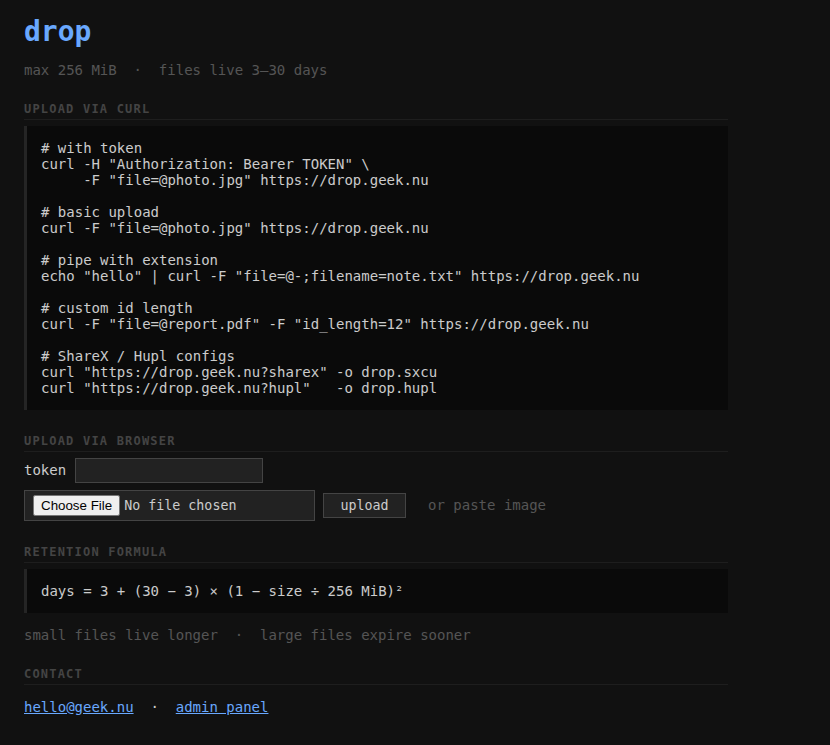
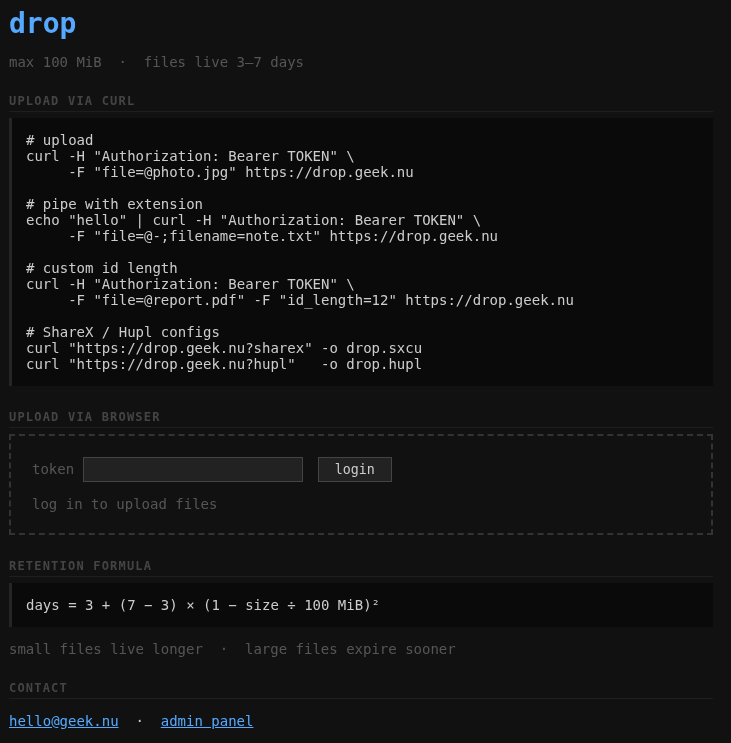
update screenshot

diff --git a/docs/superpowers/plans/2026-03-29-upload-session-auth.md b/docs/superpowers/plans/2026-03-29-upload-session-auth.md
@@ -1,0 +1,355 @@
+# Upload Session Auth Implementation Plan
+
+> **For agentic workers:** REQUIRED SUB-SKILL: Use superpowers:subagent-driven-development (recommended) or superpowers:executing-plans to implement this plan task-by-task. Steps use checkbox (`- [ ]`) syntax for tracking.
+
+**Goal:** Replace the per-upload token field with a session-based "login" flow so browser uploads (paste, drag-drop, form) work without re-entering the token.
+
+**Architecture:** Add a `role` field to the existing `sessionData` struct to distinguish admin vs upload sessions. Add an upload-token login handler in `handleRoot`. Modify `handleUpload` to accept upload sessions. Update the index template to show a login form instead of an inline token field.
+
+**Tech Stack:** Go stdlib (net/http, sync, crypto), HTML/JS (inline template)
+
+**Note:** This project has no tests. Steps skip TDD and go straight to implementation + manual verification.
+
+---
+
+### Task 1: Add role field to sessionData and create isUploader helper
+
+**Files:**
+- Modify: `main.go:345-348` (sessionData struct)
+- Modify: `main.go:462-469` (newSession function)
+- Add new function after `isAdmin`
+
+- [ ] **Step 1: Add `role` field to `sessionData`**
+
+Change the struct at line 345:
+
+```go
+type sessionData struct {
+	expiry time.Time
+	csrf   string
+	role   string // "admin" or "upload"
+}
+```
+
+- [ ] **Step 2: Update `newSession` to accept a role parameter**
+
+Change `newSession` (line 462) to:
+
+```go
+func newSession(role string) string {
+	tok := randHex(32)
+	sessions.Store(tok, sessionData{
+		expiry: time.Now().Add(sessionTTL),
+		csrf:   randHex(16),
+		role:   role,
+	})
+	return tok
+}
+```
+
+- [ ] **Step 3: Update the one existing call to `newSession` in `handleAdmin`**
+
+At line 1263, change:
+
+```go
+tok := newSession()
+```
+
+to:
+
+```go
+tok := newSession("admin")
+```
+
+- [ ] **Step 4: Add `isUploader` function after `isAdmin` (after line 486)**
+
+```go
+// isUploader returns true if the request has a valid upload or admin session.
+func isUploader(r *http.Request) bool {
+	c, err := r.Cookie("drop_session")
+	if err != nil {
+		return false
+	}
+	v, ok := sessions.Load(c.Value)
+	if !ok {
+		return false
+	}
+	sd := v.(sessionData)
+	if time.Now().After(sd.expiry) {
+		sessions.Delete(c.Value)
+		return false
+	}
+	return sd.role == "upload" || sd.role == "admin"
+}
+```
+
+- [ ] **Step 5: Verify it compiles**
+
+Run: `cd /home/alex/GitHub/drop && go build -o /dev/null .`
+Expected: no errors
+
+- [ ] **Step 6: Commit**
+
+```bash
+git add main.go
+git commit -m "feat: add role field to sessions and isUploader helper"
+```
+
+---
+
+### Task 2: Add upload-token login handler in handleRoot
+
+**Files:**
+- Modify: `main.go:1723-1751` (handleRoot function)
+
+- [ ] **Step 1: Add token login handling in `handleRoot`**
+
+In `handleRoot`, before the existing `r.Method == http.MethodPost` check (line 1737), add a handler for `action=login` POSTs. Replace the POST block:
+
+```go
+if r.Method == http.MethodPost {
+	if r.FormValue("action") == "login" {
+		handleTokenLogin(w, r)
+		return
+	}
+	if r.FormValue("action") == "logout" {
+		destroySession(r)
+		http.Redirect(w, r, "/", http.StatusSeeOther)
+		return
+	}
+	handleUpload(w, r)
+	return
+}
+```
+
+- [ ] **Step 2: Add `handleTokenLogin` function (before `handleRoot`)**
+
+```go
+func handleTokenLogin(w http.ResponseWriter, r *http.Request) {
+	ip := clientIP(r)
+	if !checkLoginRateLimit(ip) {
+		plainErr(w, http.StatusTooManyRequests, "Too many login attempts")
+		return
+	}
+	tok := r.FormValue("token")
+	if _, ok := validateUploadToken(tok); !ok {
+		recordLoginFail(ip)
+		http.Redirect(w, r, "/?err=badtoken", http.StatusSeeOther)
+		return
+	}
+	clearLoginFail(ip)
+	sess := newSession("upload")
+	http.SetCookie(w, &http.Cookie{
+		Name:     "drop_session",
+		Value:    sess,
+		Path:     "/",
+		HttpOnly: true,
+		Secure:   r.TLS != nil || r.Header.Get("X-Forwarded-Proto") == "https",
+		SameSite: http.SameSiteLaxMode,
+		MaxAge:   int(sessionTTL.Seconds()),
+	})
+	http.Redirect(w, r, "/", http.StatusSeeOther)
+}
+```
+
+Note: Uses `SameSiteLaxMode` (not Strict) so the cookie survives normal navigation back to the site. The admin panel uses Strict which is fine for its POST-only actions, but the index page needs Lax for the redirect after login to preserve the cookie.
+
+- [ ] **Step 3: Verify it compiles**
+
+Run: `cd /home/alex/GitHub/drop && go build -o /dev/null .`
+Expected: no errors
+
+- [ ] **Step 4: Commit**
+
+```bash
+git add main.go
+git commit -m "feat: add upload-token login/logout handlers"
+```
+
+---
+
+### Task 3: Update handleUpload to accept upload sessions
+
+**Files:**
+- Modify: `main.go:653` (handleUpload auth check)
+
+- [ ] **Step 1: Change `isAdmin(r)` to `isUploader(r)` in handleUpload**
+
+At line 653, change:
+
+```go
+} else if cfgRequireAuth && isAdmin(r) {
+	// Logged-in admin session — skip token auth entirely.
+```
+
+to:
+
+```go
+} else if cfgRequireAuth && isUploader(r) {
+	// Logged-in session (admin or upload) — skip token auth.
+```
+
+Note: `isUploader` returns true for both `"admin"` and `"upload"` roles, so admin sessions still work.
+
+- [ ] **Step 2: Verify it compiles**
+
+Run: `cd /home/alex/GitHub/drop && go build -o /dev/null .`
+Expected: no errors
+
+- [ ] **Step 3: Commit**
+
+```bash
+git add main.go
+git commit -m "feat: accept upload sessions in handleUpload auth"
+```
+
+---
+
+### Task 4: Update index template — login form and authenticated state
+
+**Files:**
+- Modify: `main.go:1496-1509` (upload form in index template)
+- Modify: `main.go:1536-1539` (JS uploadFile token handling)
+
+- [ ] **Step 1: Replace the token input with a login/authenticated UI**
+
+Replace the upload form section (lines 1496-1509):
+
+```html
+<div id="dropzone" style="border:2px dashed #333;padding:1.5em;margin-bottom:1em;transition:border-color .2s,background .2s">
+{{- if and .HasToken (not .LoggedIn)}}
+  <form method="POST" style="margin-bottom:1em">
+    <input type="hidden" name="action" value="login">
+    <label style="color:#555">token <input type="password" name="token" id="tok" style="width:220px"></label>
+    <button type="submit" style="margin-left:.5em">login</button>
+    {{- if .AuthErr}}
+    <span style="color:#f55;margin-left:.5em">invalid token</span>
+    {{- end}}
+  </form>
+  <p class="dim" style="margin:0">log in to upload files</p>
+{{- else}}
+  {{- if and .HasToken .LoggedIn}}
+  <div style="margin-bottom:1em">
+    <span style="color:#0d0">&#10003;</span> <span class="dim">authenticated</span>
+    <form method="POST" style="display:inline;margin-left:1em">
+      <input type="hidden" name="action" value="logout">
+      <button type="submit" style="border:none;background:none;color:#555;cursor:pointer;font-family:monospace;padding:0;text-decoration:underline">logout</button>
+    </form>
+  </div>
+  {{- end}}
+  <p style="margin:0 0 1em;color:#555">drag &amp; drop file here</p>
+  <form id="uform" method="POST" enctype="multipart/form-data">
+    <input type="file" name="file" id="fi">
+    <input type="hidden" name="formatted" value="true">
+    <button type="submit" style="margin-left:.5em">upload</button>
+    <span class="dim" style="margin-left:.5em">or paste image</span>
+  </form>
+{{- end}}
+</div>
+```
+
+- [ ] **Step 2: Add `AuthErr` field to `indexData`**
+
+In the `indexData` struct (line 1434), add:
+
+```go
+type indexData struct {
+	SiteURL  string
+	MaxSize  int
+	MinAge   int
+	MaxAge   int
+	HasToken bool
+	LoggedIn bool
+	AuthErr  bool
+	Email    string
+}
+```
+
+- [ ] **Step 3: Set `AuthErr` in `handleRoot` when `?err=badtoken` is present**
+
+In `handleRoot`, update the template execution block:
+
+```go
+w.Header().Set("Content-Type", "text/html; charset=utf-8")
+indexTpl.Execute(w, indexData{
+	SiteURL:  siteURL(r),
+	MaxSize:  cfgMaxFilesizeMiB,
+	MinAge:   cfgMinFileAgeDays,
+	MaxAge:   cfgMaxFileAgeDays,
+	HasToken: cfgRequireAuth,
+	LoggedIn: isUploader(r),
+	AuthErr:  r.URL.Query().Get("err") == "badtoken",
+	Email:    cfgAdminEmail,
+})
+```
+
+Note: `LoggedIn` now uses `isUploader(r)` instead of `isAdmin(r)` so upload sessions are recognized.
+
+- [ ] **Step 4: Update JS `uploadFile` — remove token header logic**
+
+In the `uploadFile` function, remove the token-related lines. The function should no longer look for `#tok`:
+
+```javascript
+function uploadFile(file) {
+    var fd = new FormData();
+    fd.append('file', file);
+
+    var prog = document.getElementById('progress');
+    var pbar = document.getElementById('pbar');
+    var ptxt = document.getElementById('ptxt');
+    var res = document.getElementById('result');
+    prog.style.display = 'block';
+    res.style.display = 'none';
+    pbar.style.width = '0%';
+    ptxt.textContent = '0%';
+
+    var xhr = new XMLHttpRequest();
+    xhr.open('POST', '/');
+    xhr.upload.onprogress = function(e) {
+```
+
+The rest of the XHR handler (onload, onerror, send) stays the same.
+
+- [ ] **Step 5: Verify it compiles**
+
+Run: `cd /home/alex/GitHub/drop && go build -o /dev/null .`
+Expected: no errors
+
+- [ ] **Step 6: Commit**
+
+```bash
+git add main.go
+git commit -m "feat: update index page with login/logout UI for upload token"
+```
+
+---
+
+### Task 5: Manual verification
+
+- [ ] **Step 1: Build and run locally**
+
+```bash
+cd /home/alex/GitHub/drop && go build -o drop .
+UPLOAD_TOKEN=testtoken ./drop
+```
+
+- [ ] **Step 2: Verify login flow**
+
+1. Visit `http://localhost:8080` — should see token login form, no upload form
+2. Enter wrong token, click login — should redirect back with "invalid token" message
+3. Enter `testtoken`, click login — should redirect back, see "authenticated" + logout + upload form
+4. Upload a file via the form — should work without entering token
+5. Paste an image (ctrl-v) — should work without entering token
+6. Click logout — should see the login form again
+
+- [ ] **Step 3: Verify curl still works**
+
+```bash
+echo "test" | curl -H "Authorization: Bearer testtoken" -F "file=@-;filename=test.txt" http://localhost:8080
+```
+
+Expected: returns a URL
+
+- [ ] **Step 4: Verify admin panel is unaffected**
+
+Visit `http://localhost:8080/admin` — should still require admin password, not upload token
